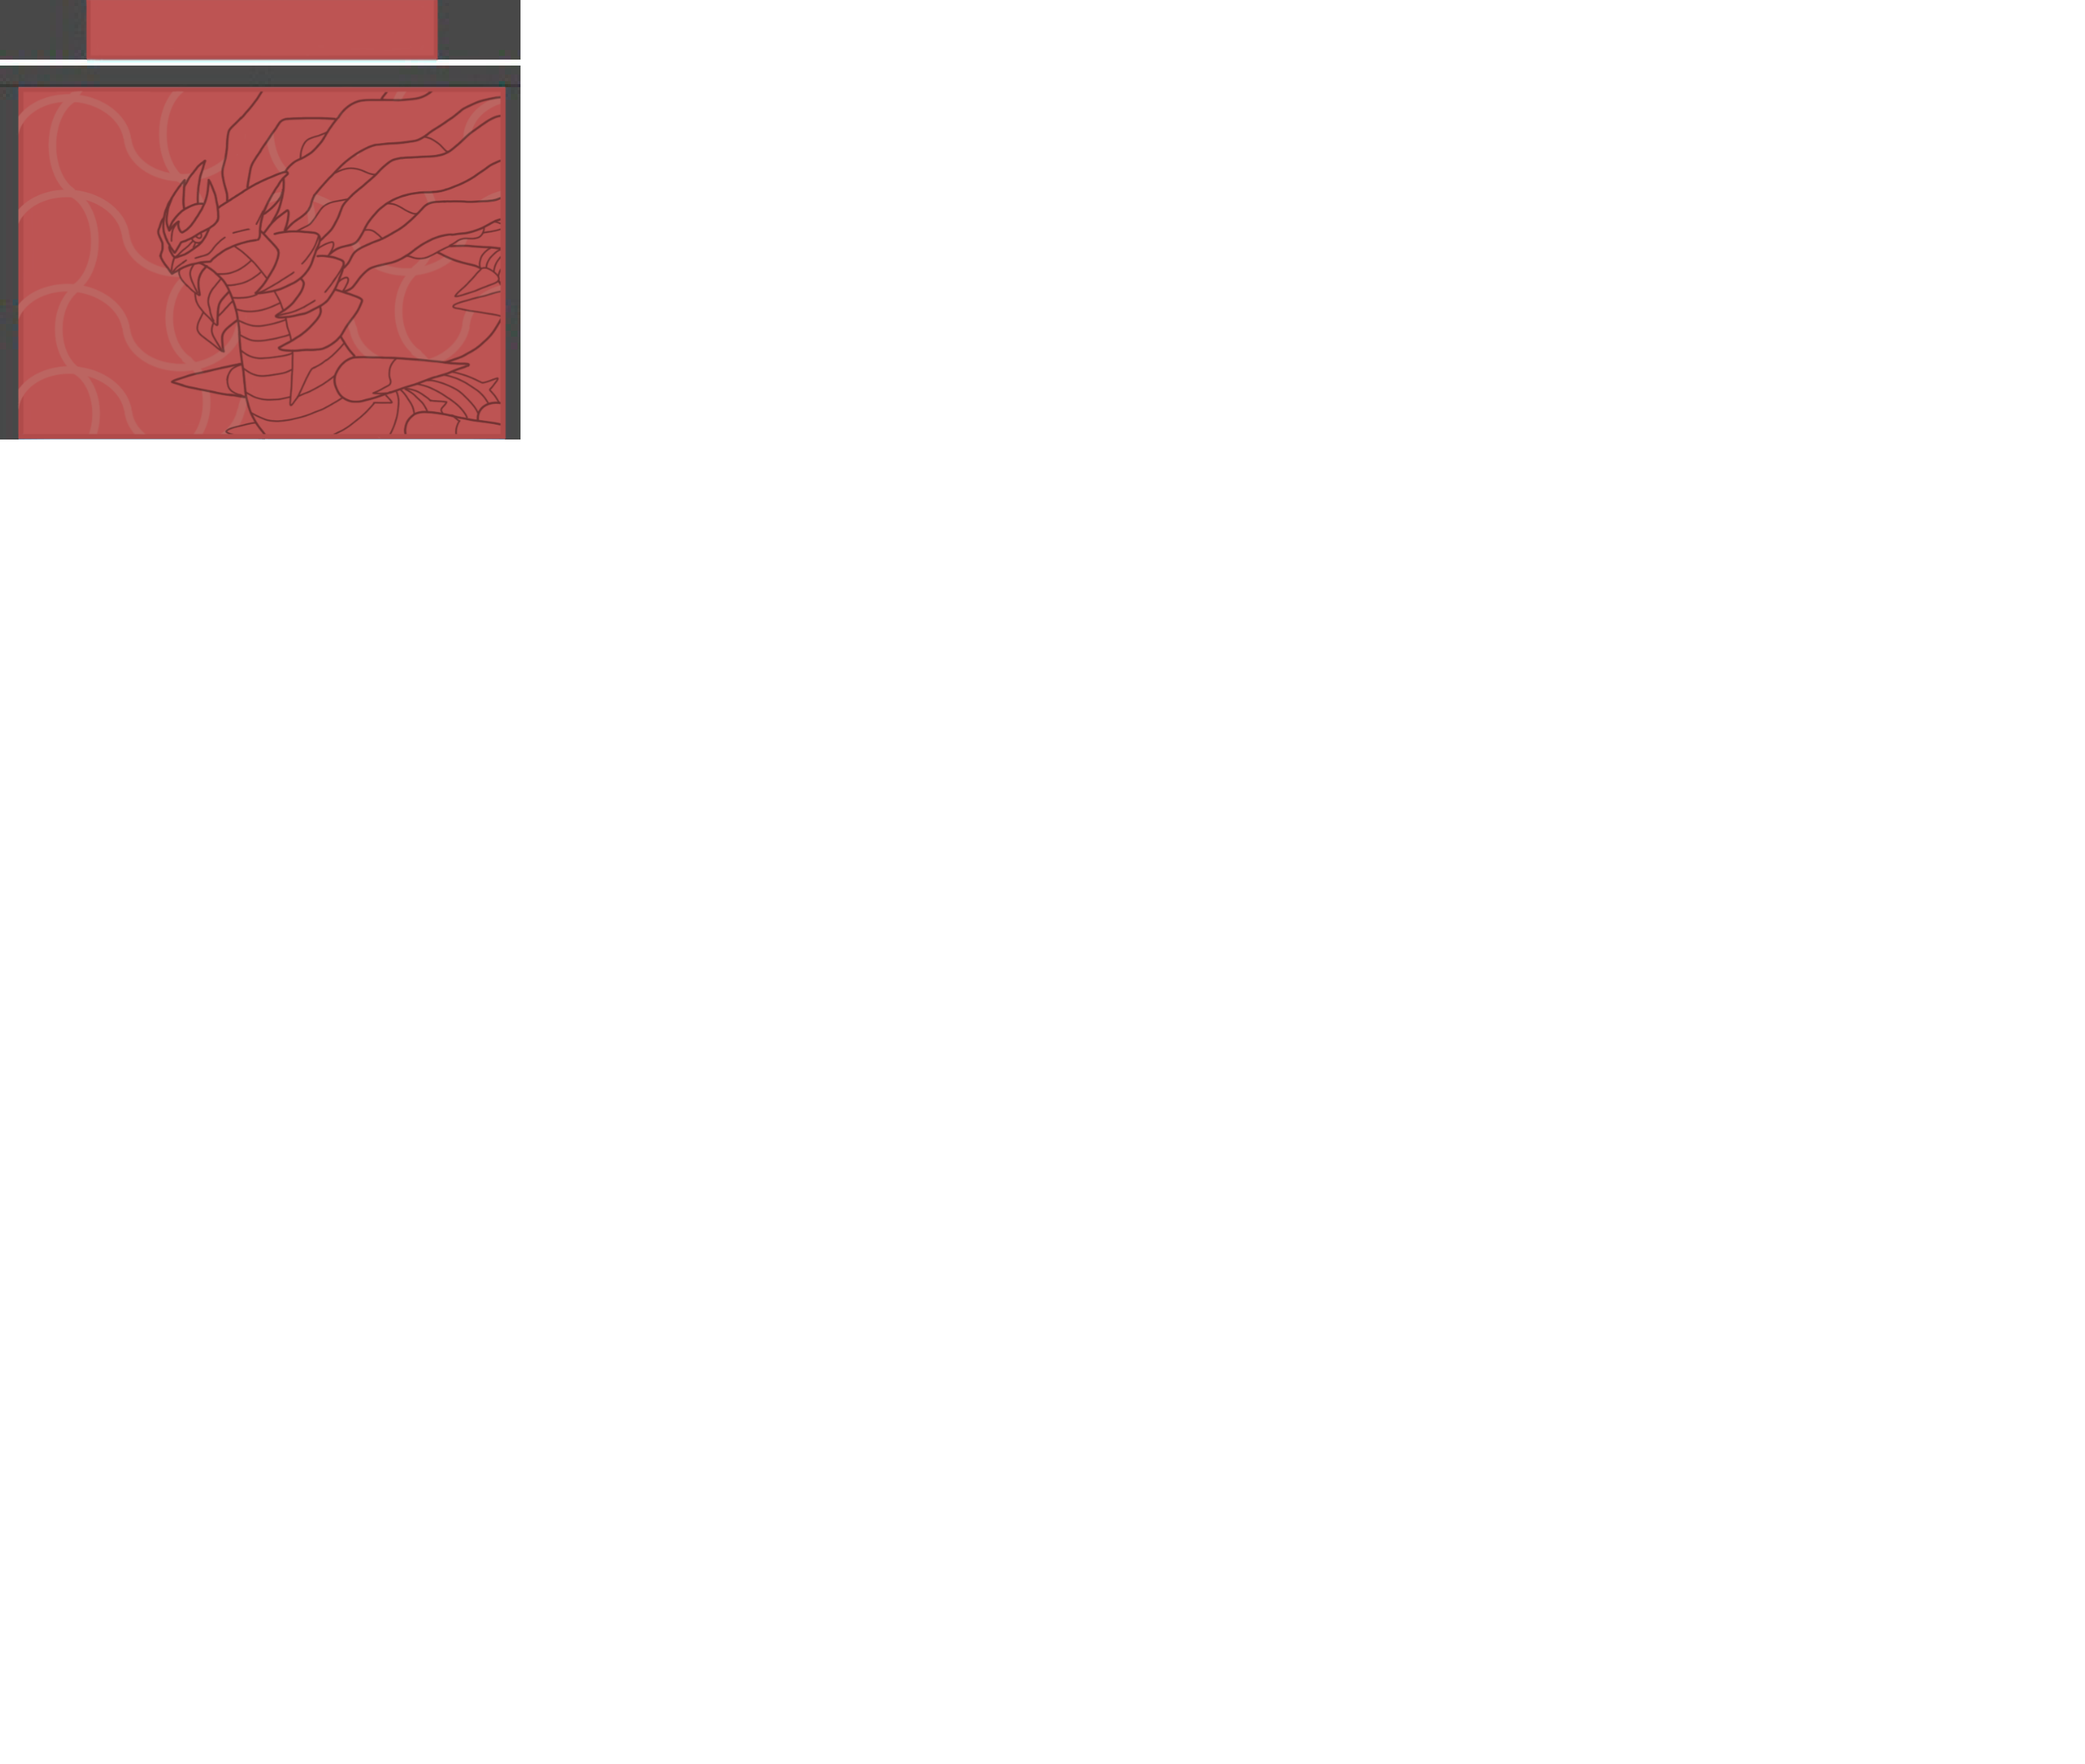
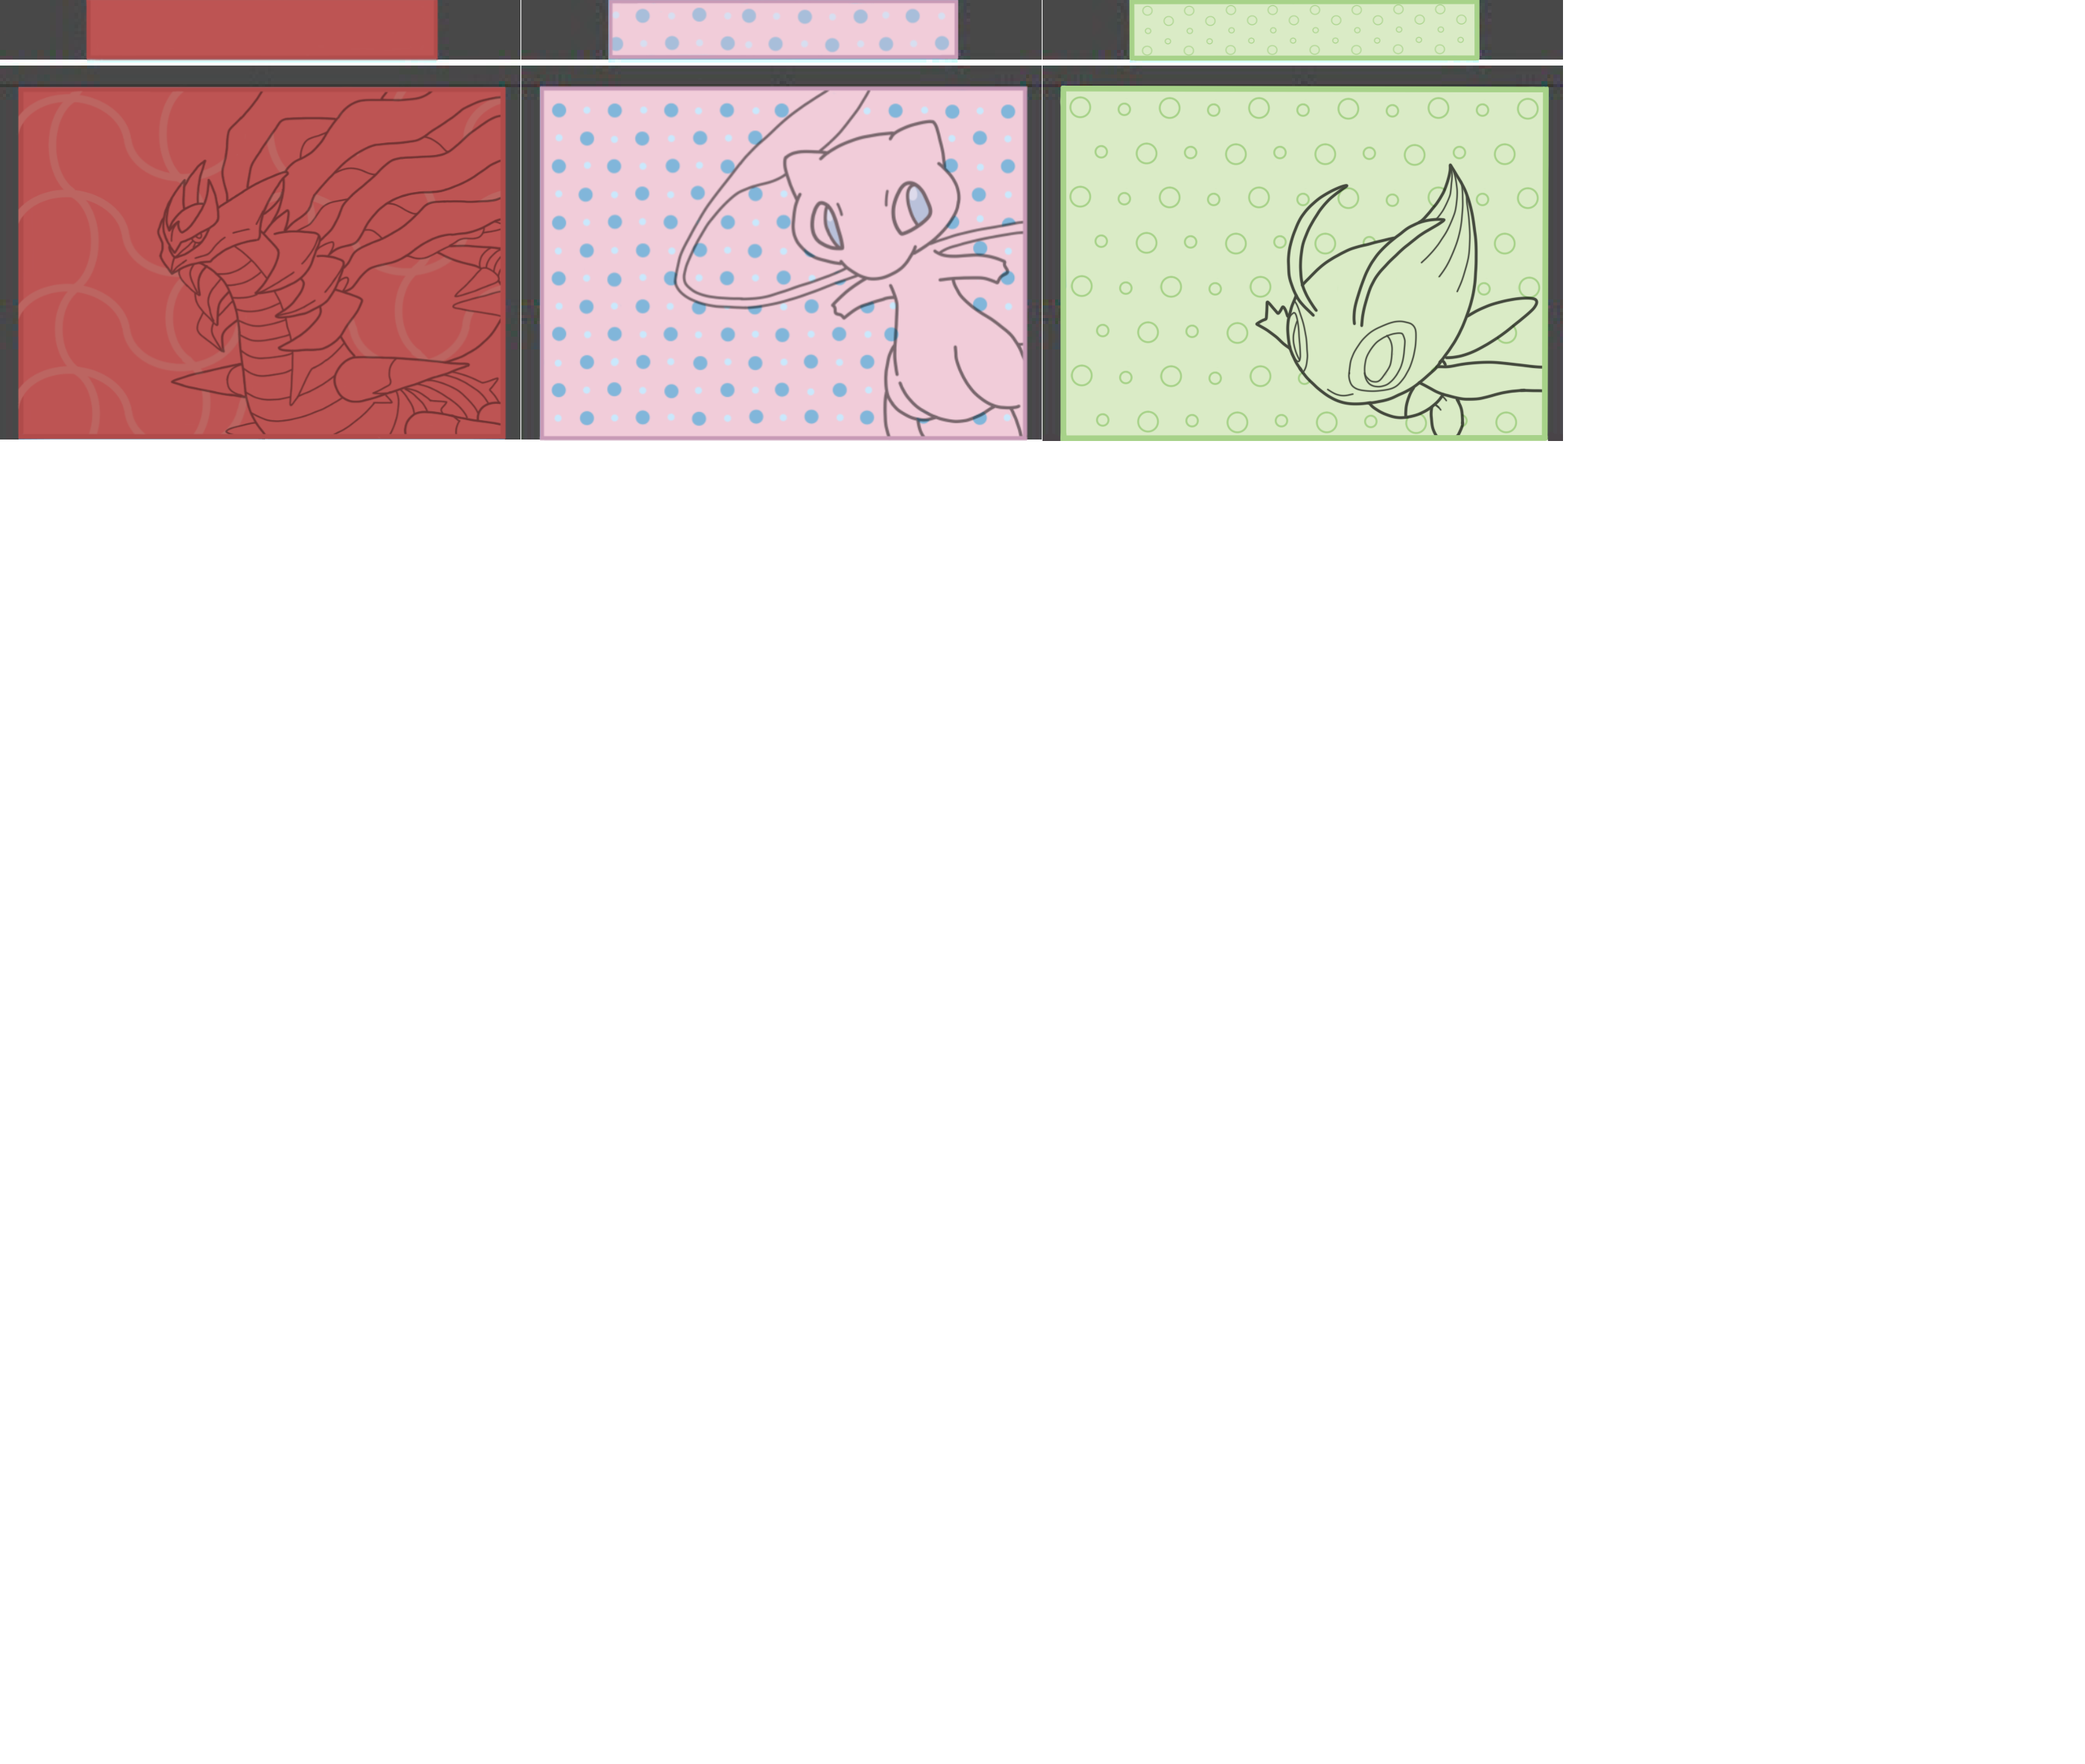
sistemato posizone pokemon box e aggiornato sfondi box

Changed region(s): [[0.2486, 0.0, 0.7768, 0.25]]

diff --git a/core/src/com/mercurio/game/Screen/Box.java b/core/src/com/mercurio/game/Screen/Box.java
@@ -226,7 +226,7 @@ public class Box extends ScreenAdapter {
 
         Texture textureBack = new Texture("sfondo/sfondiBoxCompleti.png");
 
-        sfondi = new TextureRegion[24];
+        sfondi = new TextureRegion[16];
 
         // Calcola la larghezza e l'altezza di ogni frame
         int frameWidth = textureBack.getWidth() / 4;
@@ -237,7 +237,7 @@ public class Box extends ScreenAdapter {
 
         int index = 0;
         for (int r = 0; r < 4; r++) {
-            for (int c = 0; c < 4 && index < 24; c++) {
+            for (int c = 0; c < 4 && index < 16; c++) {
                 sfondi[index++] = tmp[r][c];  // Copia ogni frame nell'array unidimensionale
             }
         }
@@ -306,6 +306,7 @@ public class Box extends ScreenAdapter {
 
                 }else {
                     boxAttuale += 1;
+                    System.out.println("aa");
                     caricaPagina(boxAttuale);
                     aggiornaVisibilitaFreccie();
                     label.setText(getBoxLabel(boxAttuale));
@@ -552,7 +553,7 @@ public class Box extends ScreenAdapter {
         }
         animationImages.clear(); // Pulisce l'array per evitare riferimenti residui
         cont = 0; // Resetta il contatore
-        yPoke = ((Gdx.graphics.getHeight() + sfondi[0].getRegionHeight()) / 2) + 10; // Resetta la posizione verticale
+        yPoke = ((Gdx.graphics.getHeight() + sfondi[0].getRegionHeight()) / 2) + 10 - 200; // Resetta la posizione verticale
     }
 
     public String getBoxLabel(int number) {
